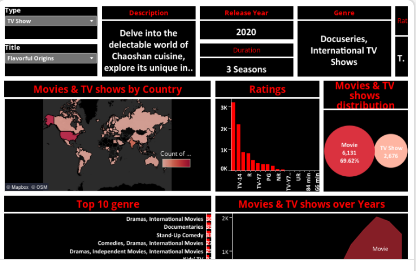
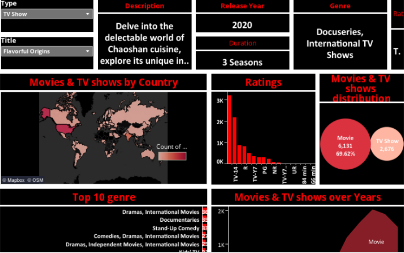
updated image
updated image

diff --git a/index.html b/index.html
@@ -75,7 +75,7 @@
 											Tableau - Netflix Dashboard
 										</a></h2>
 									</header>
-									<a href="https://public.tableau.com/app/profile/preethisubramanian/viz/NetflixDashboard_16871265402070/NetflixDashboard" class="image fit"><img src="images/Netflix.png" alt="" /></a>
+									<a href="https://public.tableau.com/app/profile/preethisubramanian/viz/NetflixDashboard_16871265402070/NetflixDashboard" class="image fit"><img style="max-width: 450px; max-height: 350px" src="images/Netflix.png" alt="" /></a>
 									<p>Topic: Wanna know insights of Netflix in Tableau? </p>
 									<ul class="actions special">
 										<li><a href="https://public.tableau.com/app/profile/preethisubramanian/viz/NetflixDashboard_16871265402070/NetflixDashboard" class="button">Read More</a></li>
@@ -88,7 +88,7 @@
 											Python - Graph Search Algorithm 
 										</a></h2>
 									</header>
-									<a href="https://github.com/IamPreethi-S/DAA" class="image fit"><img src="images/Bfsvsdfs.png" alt="" /></a>
+									<a href="https://github.com/IamPreethi-S/DAA" class="image fit"><img style="max-width: 450px; max-height: 350px" src="images/Bfsvsdfs.png" alt="" /></a>
 									<p>Topic: Graph Search Algorithm - BFS Vs DFS. Which is better?</p>
 									<ul class="actions special">
 										<li><a href="https://github.com/IamPreethi-S/DAA" class="button">Read More</a></li>
@@ -101,7 +101,7 @@
 											Library Management System - GUI 
 										</a></h2>
 									</header>
-									<a href="https://github.com/IamPreethi-S/Database-Systems" class="image fit"><img src="images/Library.jpg" alt="" /></a>
+									<a href="https://github.com/IamPreethi-S/Database-Systems" class="image fit"><img style="max-width: 450px; max-height: 350px" src="images/Library.jpg" alt="" /></a>
 									<p>Topic: Designed and implemented a MySql database for keeping track of members, books, the catalog, and the
 										borrowing activity of a university library</p>
 									<ul class="actions special">
@@ -114,9 +114,9 @@
 										<h2><a href="https://public.tableau.com/app/profile/preethisubramanian/viz/SpotifyTop200Dashboard/SpotifyTop200Dashboard">
 											Tableau - Spotify Dashboard
 										</a></h2>
-										<p>Topic: Wanna know insights of Spotify in Tableau? </p>
 									</header>
-									<a href="https://public.tableau.com/app/profile/preethisubramanian/viz/SpotifyTop200Dashboard/SpotifyTop200Dashboard" class="image main"><img src="images/spotify.png" alt="" /></a>
+									<a href="https://public.tableau.com/app/profile/preethisubramanian/viz/SpotifyTop200Dashboard/SpotifyTop200Dashboard" class="image main"><img style="max-width: 450px; max-height: 350px" src="images/spotify.png" alt="" /></a>
+									<p>Topic: Wanna know insights of Spotify in Tableau? </p>
 									<ul class="actions special">
 										<li><a href="https://public.tableau.com/app/profile/preethisubramanian/viz/SpotifyTop200Dashboard/SpotifyTop200Dashboard" class="button large">Read More</a></li>
 									</ul>
@@ -129,7 +129,7 @@
 										</a></h2>
 										<!-- <p>Topic: Wanna know insights of Spotify in Tableau? </p> -->
 									</header>
-									<a href="https://public.tableau.com/app/profile/preethisubramanian/viz/WOW2023Week45Helpmechoosemywine_17038986615260/WOW2023W45-UK" class="image main"><img src="images/choosewine.png" alt="" /></a>
+									<a href="https://public.tableau.com/app/profile/preethisubramanian/viz/WOW2023Week45Helpmechoosemywine_17038986615260/WOW2023W45-UK" class="image main"><img style="max-width: 450px; max-height: 350px" src="images/choosewine.png" alt="" /></a>
 									<ul class="actions special">
 										<li><a href="https://public.tableau.com/app/profile/preethisubramanian/viz/WOW2023Week45Helpmechoosemywine_17038986615260/WOW2023W45-UK" class="button large">Read More</a></li>
 									</ul>
